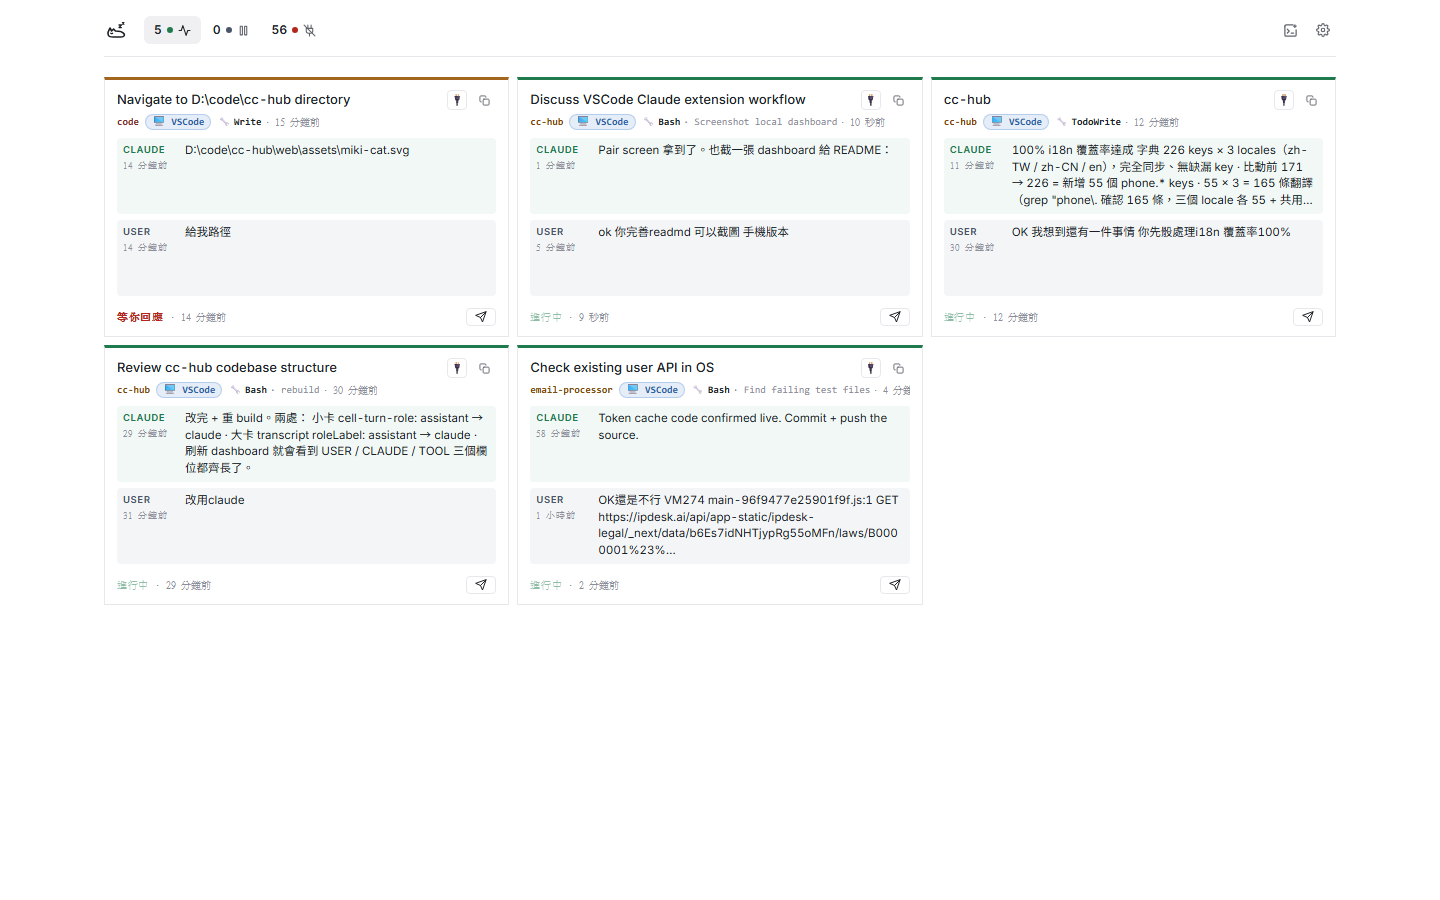
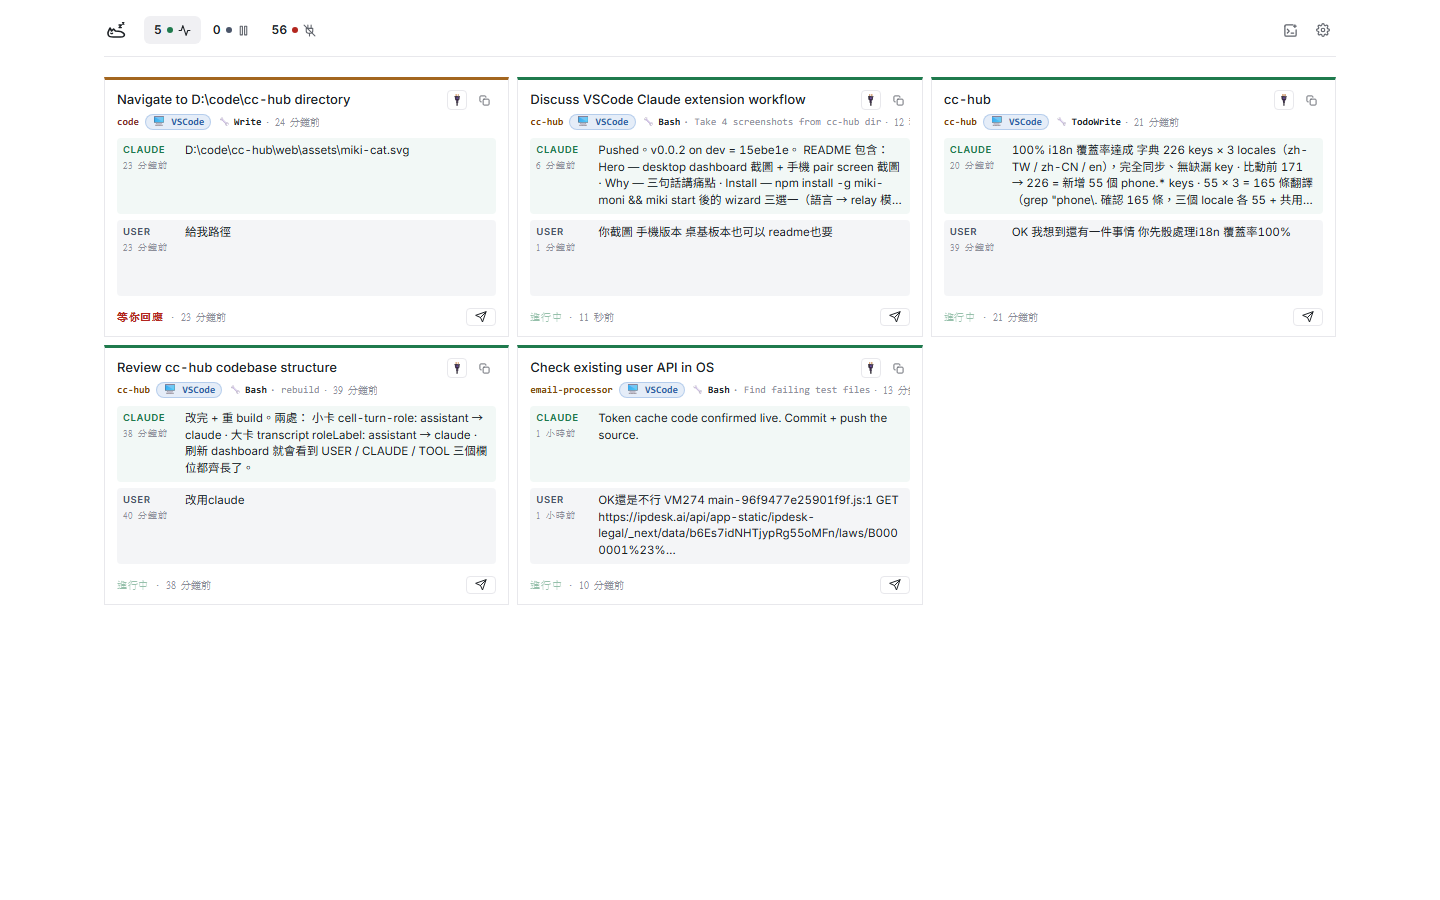
docs: 4-screenshot hero (desktop + phone dashboard + 2 pair screens)
README now shows the full visual story:
  · Desktop dashboard (1440×900)
  · Phone dashboard (iPhone 14 Pro viewport — single-column session cards)
  · Phone pair screen
  · Desktop pair screen (for 2nd laptop / tablet onboarding)

bump: 0.0.2 → 0.0.3

diff --git a/README.md b/README.md
@@ -5,16 +5,27 @@
 Aggregate the state of every VSCode Claude Code panel into a single local dashboard. Connect to it from your phone or another laptop through an end-to-end encrypted relay.
 
 <p align="center">
-  <img src="docs/images/dashboard-desktop.png" width="720" alt="Desktop dashboard — session cards with live transcript">
+  <img src="docs/images/dashboard-desktop.png" width="800" alt="Desktop dashboard — session cards with live transcript">
   <br />
-  <em>Local dashboard at <code>http://127.0.0.1:8765</code> · same UI served to phones via tunnel</em>
+  <em>Desktop dashboard at <code>http://127.0.0.1:8765</code></em>
 </p>
 
-<p align="center">
-  <img src="docs/images/phone-pair-screen.png" width="320" alt="Phone pairing screen with QR scan + 16-char code entry">
-  <br />
-  <em>Phone pairing — scan QR, paste URL, or type the 16-char code</em>
-</p>
+<table>
+<tr>
+<td align="center">
+  <img src="docs/images/dashboard-phone.png" width="280" alt="Phone dashboard — same content, single-column mobile layout">
+  <br /><em>Phone dashboard (mobile viewport)</em>
+</td>
+<td align="center">
+  <img src="docs/images/phone-pair-screen.png" width="280" alt="Phone pairing screen — QR scan + 16-char code">
+  <br /><em>Phone pairing screen — scan QR or type code</em>
+</td>
+<td align="center">
+  <img src="docs/images/desktop-pair-screen.png" width="280" alt="Pair screen on desktop browser — second laptop / tablet">
+  <br /><em>Pair screen on any browser (2nd laptop / tablet)</em>
+</td>
+</tr>
+</table>
 
 ---
 